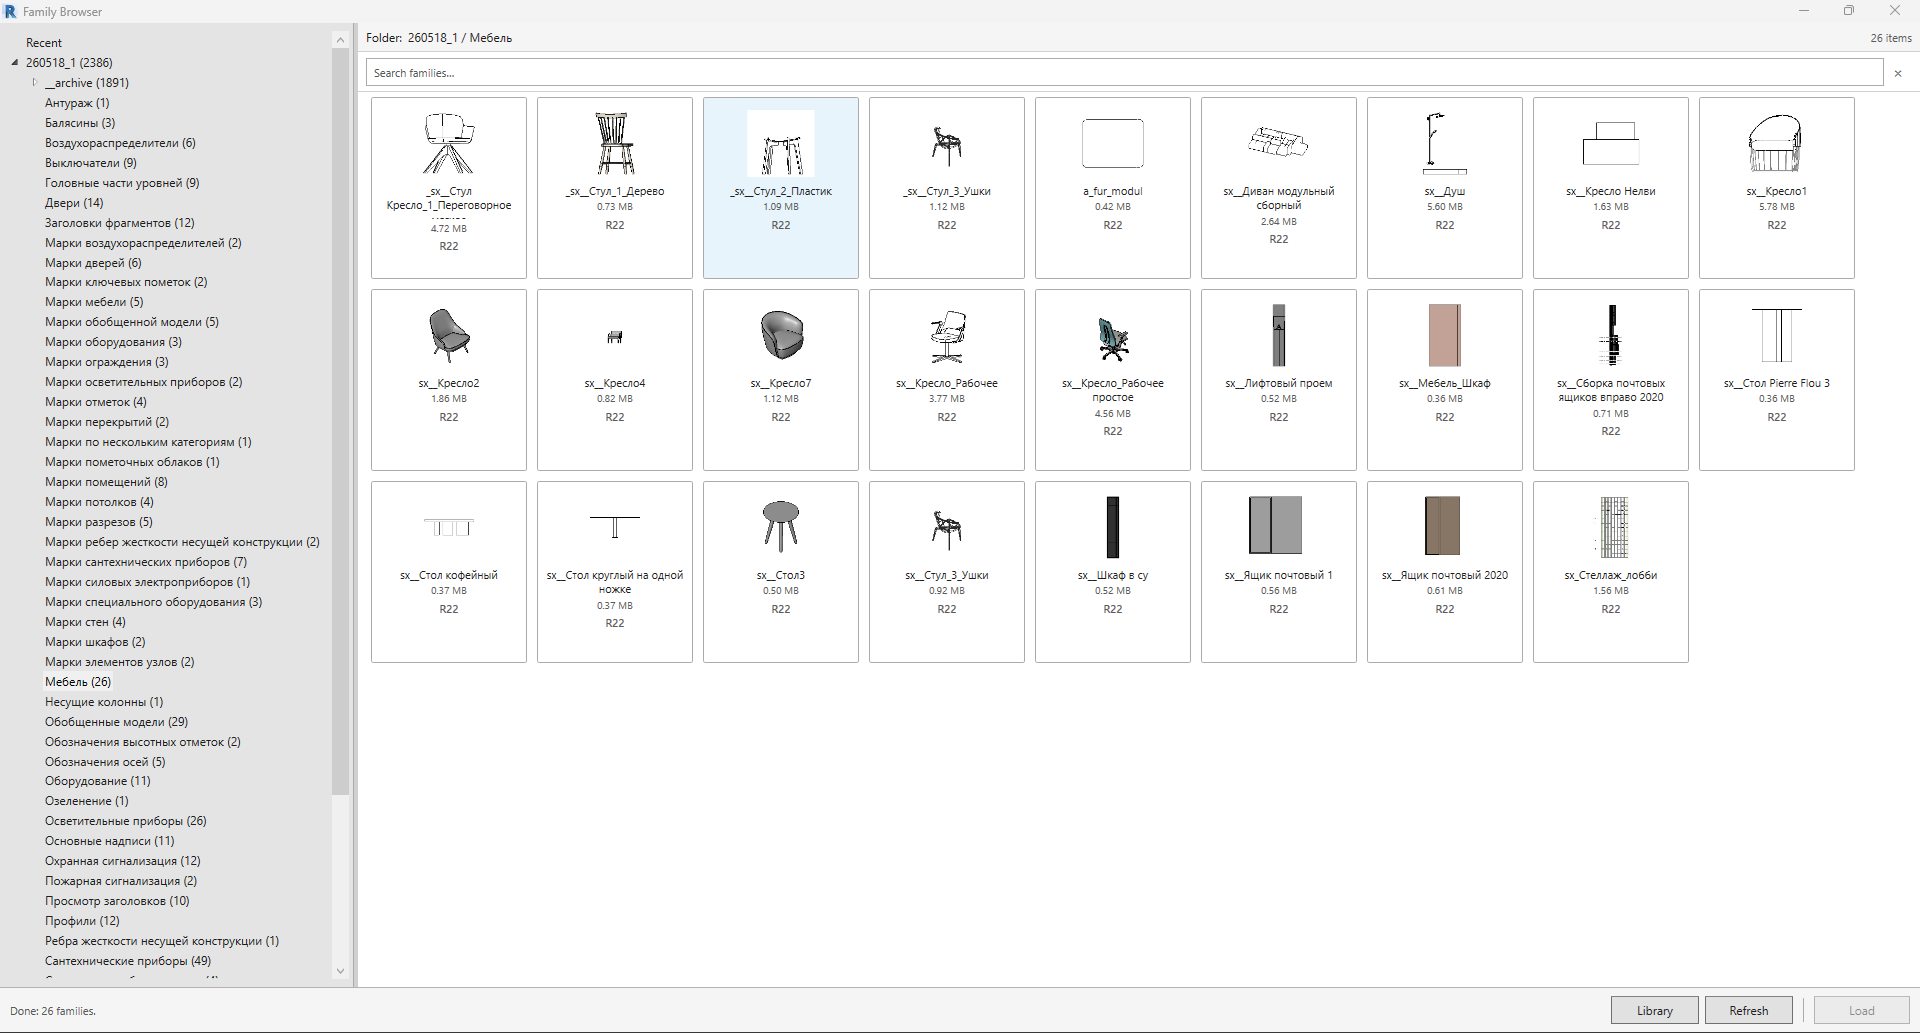
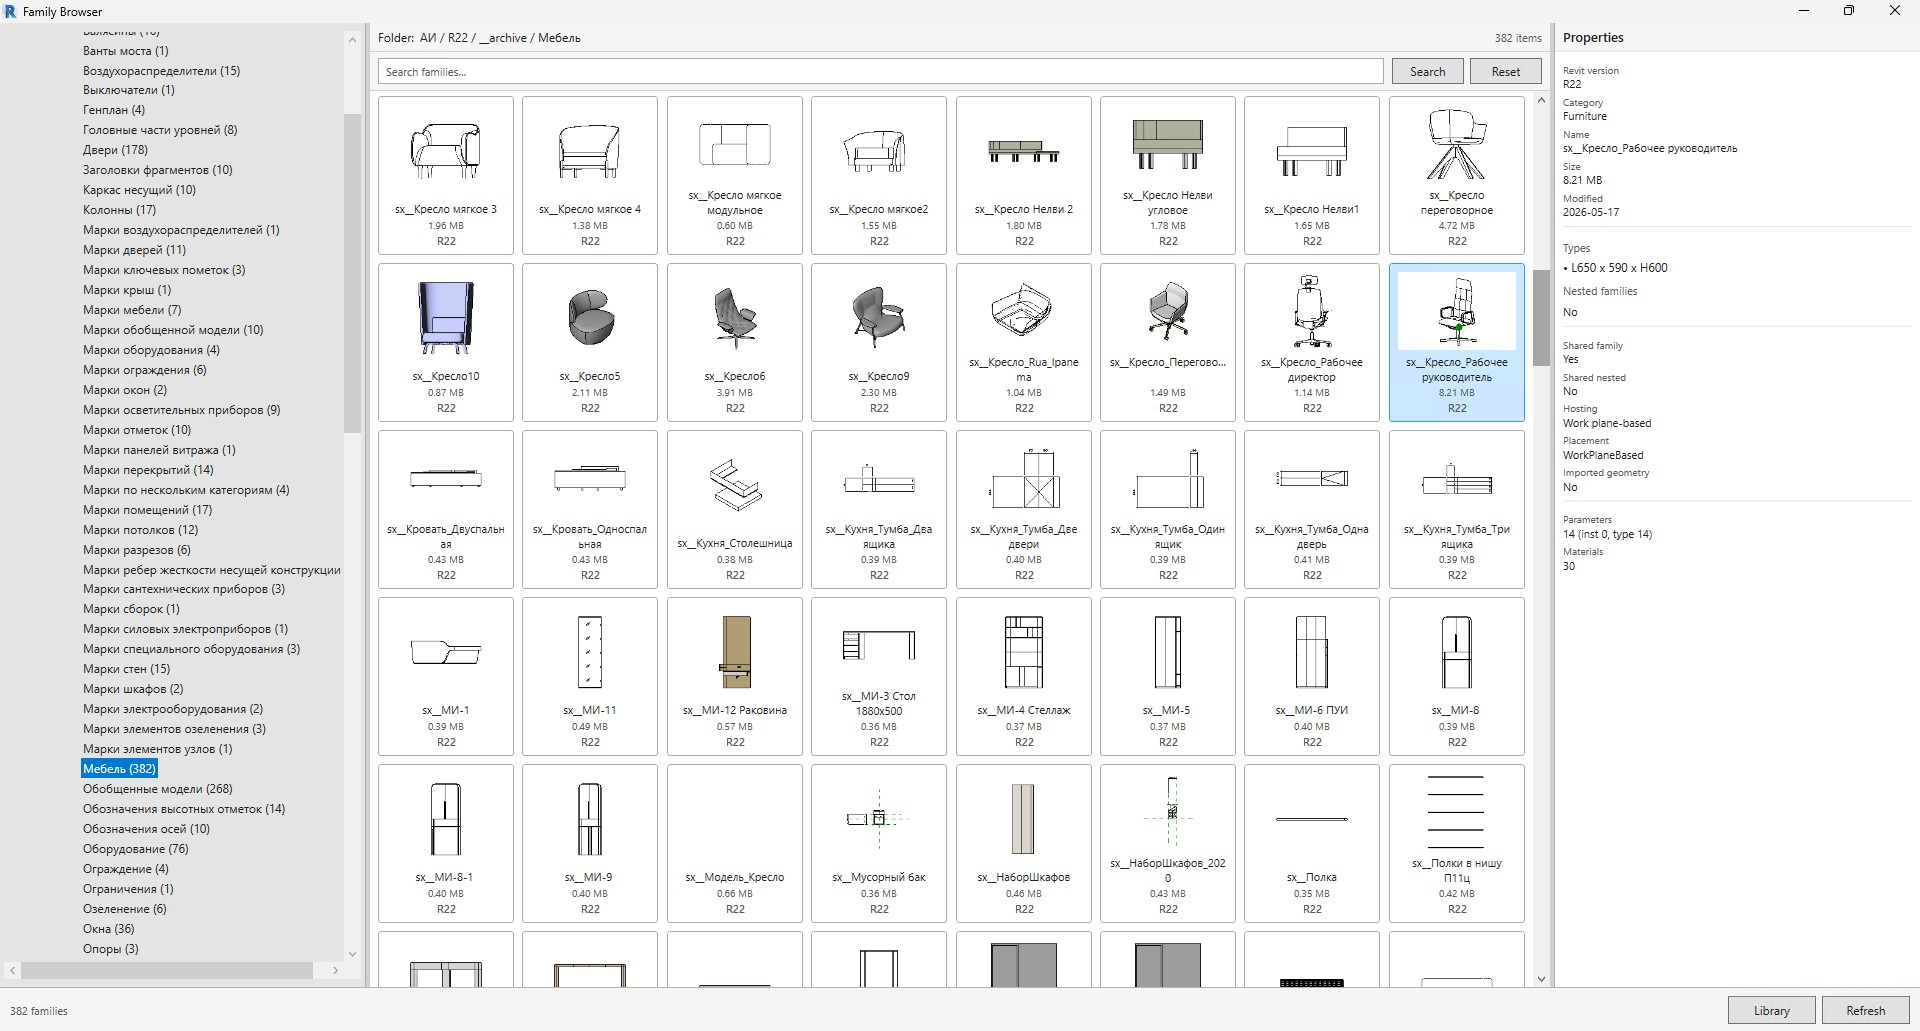
docs: update README for Family Browser 1.3

diff --git a/README.md b/README.md
@@ -7,21 +7,19 @@
 	- Browse folders with `.rfa` files and thumbnail previews
 	- Folder tree with multiple levels
     - Search by name, folder, and Revit version
-    - Family properties and quality constraints are available from the properties view
+    - Middle-click — open the family in Windows Explorer
     - Left-click — load and place the family in the project
     - Right-click — inspect family properties
 	- Place in model with return to the browser window
     - Recent files list
     - Dark/light theme
-
-  The former category, hosting, placement, and quality filter axes are not part of
-  the current Family Browser UI.
+    - Library and Refresh buttons for managing the family library
 
 ---
 #### Installation
   ![Install](install.jpg)
 1. Add `https://github.com/georgenovak97/AVRO.git` via **pyRevit → Extensions → Git URL → Add and install**.
-2. In the Revit ribbon: tab **"AVRO"** → panel **"Tools"** → **"Family Browser"**.
+2. In the Revit ribbon, open **"AVRO"** → **"Tools"** → **"Family Browser"**.
 
 ---
 #### First Launch
@@ -35,6 +33,7 @@
 #### Requirements
 
 - pyRevit 4.8+
+- AVRO version 1.3
 - Revit 2020–2025 (2026+ untested)
 
 Reloading a family that is already in the project intentionally overwrites its
